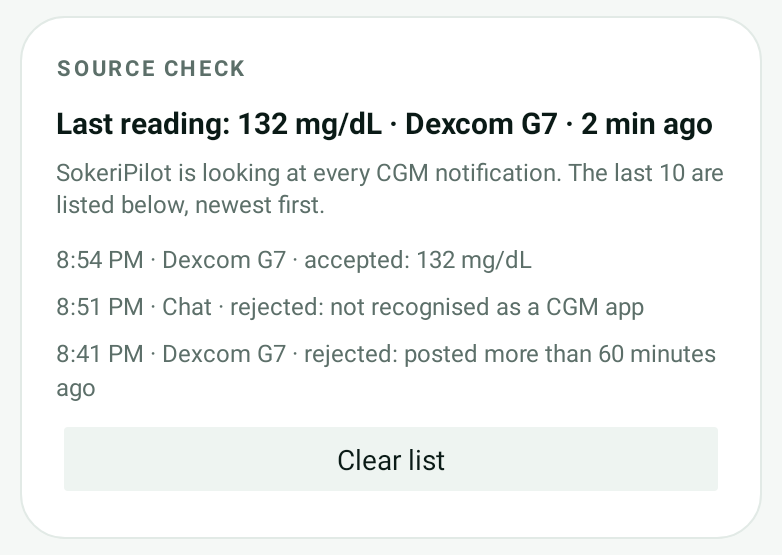
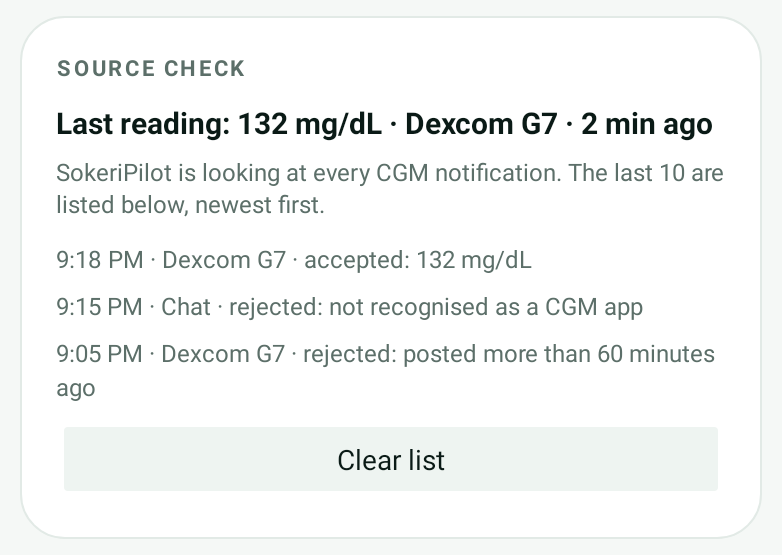
Make the Android tests run without the network, and say what the check measures
CI failed twice because Robolectric downloads android-all from Maven the first time a test
runs, and a fresh runner has no ~/.m2. The SDK jars are now a Gradle configuration copied
into build/robolectric-deps, with Robolectric in offline mode, so the suite fails on code
instead of on a flaky download.

--check now compares layout and content by default: the render carries "2 min ago" and
clock times, so byte equality is only true right after regenerating. --strict keeps that
exact comparison for the moment of regeneration, and the README describes the threshold,
the two things that move it, and what stays below it.

diff --git a/android/app/src/test/java/app/sokeripilot/phone/PhoneScreenRenderTest.kt b/android/app/src/test/java/app/sokeripilot/phone/PhoneScreenRenderTest.kt
@@ -35,6 +35,9 @@ import java.io.File
 @Config(sdk = [34], qualifiers = "w411dp-h891dp-xhdpi")
 class PhoneScreenRenderTest {
 
+    // Real time: the card shows “2 min ago” and the diagnostics show clock times, so the PNG
+    // changes as the clock does. docs/images is therefore compared by layout and content, not
+    // by exact bytes — see tools/doc-images.py.
     private val now = System.currentTimeMillis()
 
     private fun event(

diff --git a/tools/doc-images.py b/tools/doc-images.py
@@ -12,10 +12,10 @@ files the README shows:
 
 Run it after a UI change:
 
-    python tools/doc-images.py                        # crop the render that already exists
-    python tools/doc-images.py --gradle               # re-run the render tests first
-    python tools/doc-images.py --check                # exit 1 if the committed images are stale
-    python tools/doc-images.py --check --tolerate-renderer   # CI: another platform rendered it
+    python tools/doc-images.py            # crop the render that already exists
+    python tools/doc-images.py --gradle   # re-run the render tests first
+    python tools/doc-images.py --check    # exit 1 if the images no longer match the layout
+    python tools/doc-images.py --check --strict   # byte-for-byte, only after regenerating
 
 Requires Python 3.9+ and Pillow (pip install pillow).
 """
@@ -53,12 +53,13 @@ CARDS = [
     "phone-target-range",
 ]
 
-# Mean difference out of 255 between two renders of the same screen. Measured across the
-# Windows render the images come from and the Linux CI runner: 0.0-0.2, so 2.0 leaves about
-# ten times headroom. For scale, on a 782x558 card a replaced value reads 2.7, a recoloured
-# status pill 5.7, a tinted card 31; a one-word copy edit stays under 0.4 and is therefore
-# only caught by the byte check.
-RENDERER_TOLERANCE = 2.0
+# Mean difference out of 255 between two renders of the same screen. Two things move it:
+# the platform (Windows and the Linux runner differ by 0.0-0.2) and the clock (the card says
+# “2 min ago”, the diagnostics show clock times, so a later regeneration differs slightly).
+# 2.0 leaves about ten times headroom over both. For scale, on a 782x558 card a replaced value
+# reads 2.7, a recoloured status pill 5.7, a tinted card 31; a one-word copy edit stays under
+# 0.4 and is therefore only caught by --strict.
+CONTENT_TOLERANCE = 2.0
 SIZE_TOLERANCE = 2   # pixels a card may differ by before the layout counts as changed
 
 BACKGROUND_TOLERANCE = 4  # how far a pixel may sit from the canvas colour and still be canvas
@@ -179,23 +180,23 @@ def mean_difference(left: Image.Image, right: Image.Image) -> float:
     return sum(abs(x - y) for x, y in zip(a, b)) / len(a)
 
 
-def compare(path: Path, data: bytes, tolerate_renderer: bool) -> tuple[bool, str]:
+def compare(path: Path, data: bytes, strict: bool) -> tuple[bool, str]:
     """Return (is_current, note) for one generated image."""
     if path.exists() and path.read_bytes() == data:
         return True, ""
     if not path.exists():
-        return False, ""
-    if not tolerate_renderer:
-        return False, ""
+        return False, "not generated yet"
+    if strict:
+        return False, "bytes differ (the clock or the platform changed)"
 
     committed = Image.open(path).convert("RGB")
     fresh = Image.open(io.BytesIO(data)).convert("RGB")
     if abs(committed.width - fresh.width) > SIZE_TOLERANCE or abs(committed.height - fresh.height) > SIZE_TOLERANCE:
         return False, f"{committed.size} → {fresh.size}"
     difference = mean_difference(committed, fresh)
-    if difference > RENDERER_TOLERANCE:
+    if difference > CONTENT_TOLERANCE:
         return False, f"content changed (difference {difference:.1f}/255)"
-    return True, f"{path.name}: same layout, another renderer (difference {difference:.1f}/255)"
+    return True, f"{path.name}: same layout and content (difference {difference:.1f}/255)"
 
 
 def run_gradle() -> None:
@@ -217,9 +218,9 @@ def main() -> int:
     parser.add_argument("--gradle", action="store_true", help="run the render tests before cropping")
     parser.add_argument("--check", action="store_true", help="fail if the committed images are stale")
     parser.add_argument(
-        "--tolerate-renderer",
+        "--strict",
         action="store_true",
-        help="another platform rendered the PNG (CI): compare layout, not exact pixels",
+        help="require byte-identical images (only true right after regenerating)",
     )
     args = parser.parse_args()
 
@@ -235,7 +236,7 @@ def main() -> int:
     if args.check:
         stale, notes = [], []
         for path, data in outputs.items():
-            current, note = compare(path, data, args.tolerate_renderer)
+            current, note = compare(path, data, args.strict)
             if not current:
                 stale.append(f"{path.relative_to(ROOT)}{' — ' + note if note else ''}")
             elif note:

diff --git a/README.md b/README.md
@@ -141,14 +141,17 @@ and writes the seven card crops, the full screen, and copies the trend bitmap an
 fails loudly when the number of cards changes, so a new card cannot silently fall out of the
 README. It needs Python 3.9+ and Pillow.
 
-CI runs `python tools/doc-images.py --check --tolerate-renderer`. The runner is Linux and Skia
-antialiases text differently from the Windows render these images were cropped from, so exact
-bytes cannot match; in that mode the check compares the card count, the card sizes (±2 px) and a
-64×64 greyscale content difference. That difference measures 0.0–0.2/255 between the two
-platforms and the threshold is 2.0, so it fails on a layout change and on an edit that visibly
-repaints a card — a replaced value reads 2.7, a recoloured pill 5.7 — while a one-word copy edit
-(under 0.4) stays below it. Byte equality is what `--check` enforces on the machine that produced
-the screenshots.
+`--check` compares every committed image with a fresh crop. Byte-identical counts as current;
+otherwise it compares the card count, the card sizes (±2 px) and a 64×64 greyscale content
+difference. Two things legitimately move that difference: the clock (the card says “2 min ago” and
+the diagnostics list clock times, so the PNG changes as time passes) and the platform (the Linux CI
+runner differs from the Windows machine the images were made on by 0.0–0.2/255). The threshold is
+therefore 2.0, with ten times headroom, and CI simply runs `--check`.
+
+It fails on a layout change and on an edit that visibly repaints a card — a replaced value reads
+2.7, a recoloured status pill 5.7 — but a one-word copy edit stays under 0.4 and slips through.
+That case is caught by `--check --strict`, which requires byte equality and therefore only passes
+on the machine that just regenerated the images.
 
 ---
 
@@ -517,7 +520,7 @@ node tools/live-check.mjs         # 10 checks against the published site
 BASE_URL=https://glucopilot-civgdk-preview.freebuff.site node tools/live-check.mjs
 node tools/a11y-check.mjs         # 7 checks: structure, alt text, focus, WCAG AA contrast
 node tools/qr.mjs                 # the install QR decodes to the production origin
-python tools/doc-images.py --check  # the README screenshots match the current layout
+python tools/doc-images.py --check  # the README screenshots match the layout and content
 ```
 
 `live-check` verifies the page pins the current version, hash, QR code and archive, that every
@@ -578,10 +581,9 @@ mirror with `tools/pages-build.mjs`.
 - `node tools/smoke.mjs` — **17/17** HTTP 200.
 - `node tools/live-check.mjs` — **10/10** on preview and on production.
 - `node tools/qr.mjs` — decodes to `https://glucopilot-civgdk.freebuff.site/#download`.
-- `python tools/doc-images.py --check` — all 10 README images regenerate byte-identically from
-  the committed render. CI runs the same check with `--tolerate-renderer`: the two platforms differ
-  by 0.0–0.2/255, and against a 2.0 threshold it passes, comparing geometry and coarse content
-  instead of antialiasing.
+- `python tools/doc-images.py --check` — all 10 README images match the render: geometry and
+  content within 2.0/255 (the render carries clock times, and the two platforms differ by
+  0.0–0.2), and `--check --strict` passes immediately after regenerating.
 
 ### APK signing continuity (1.1.3 → 1.2.1)
 
